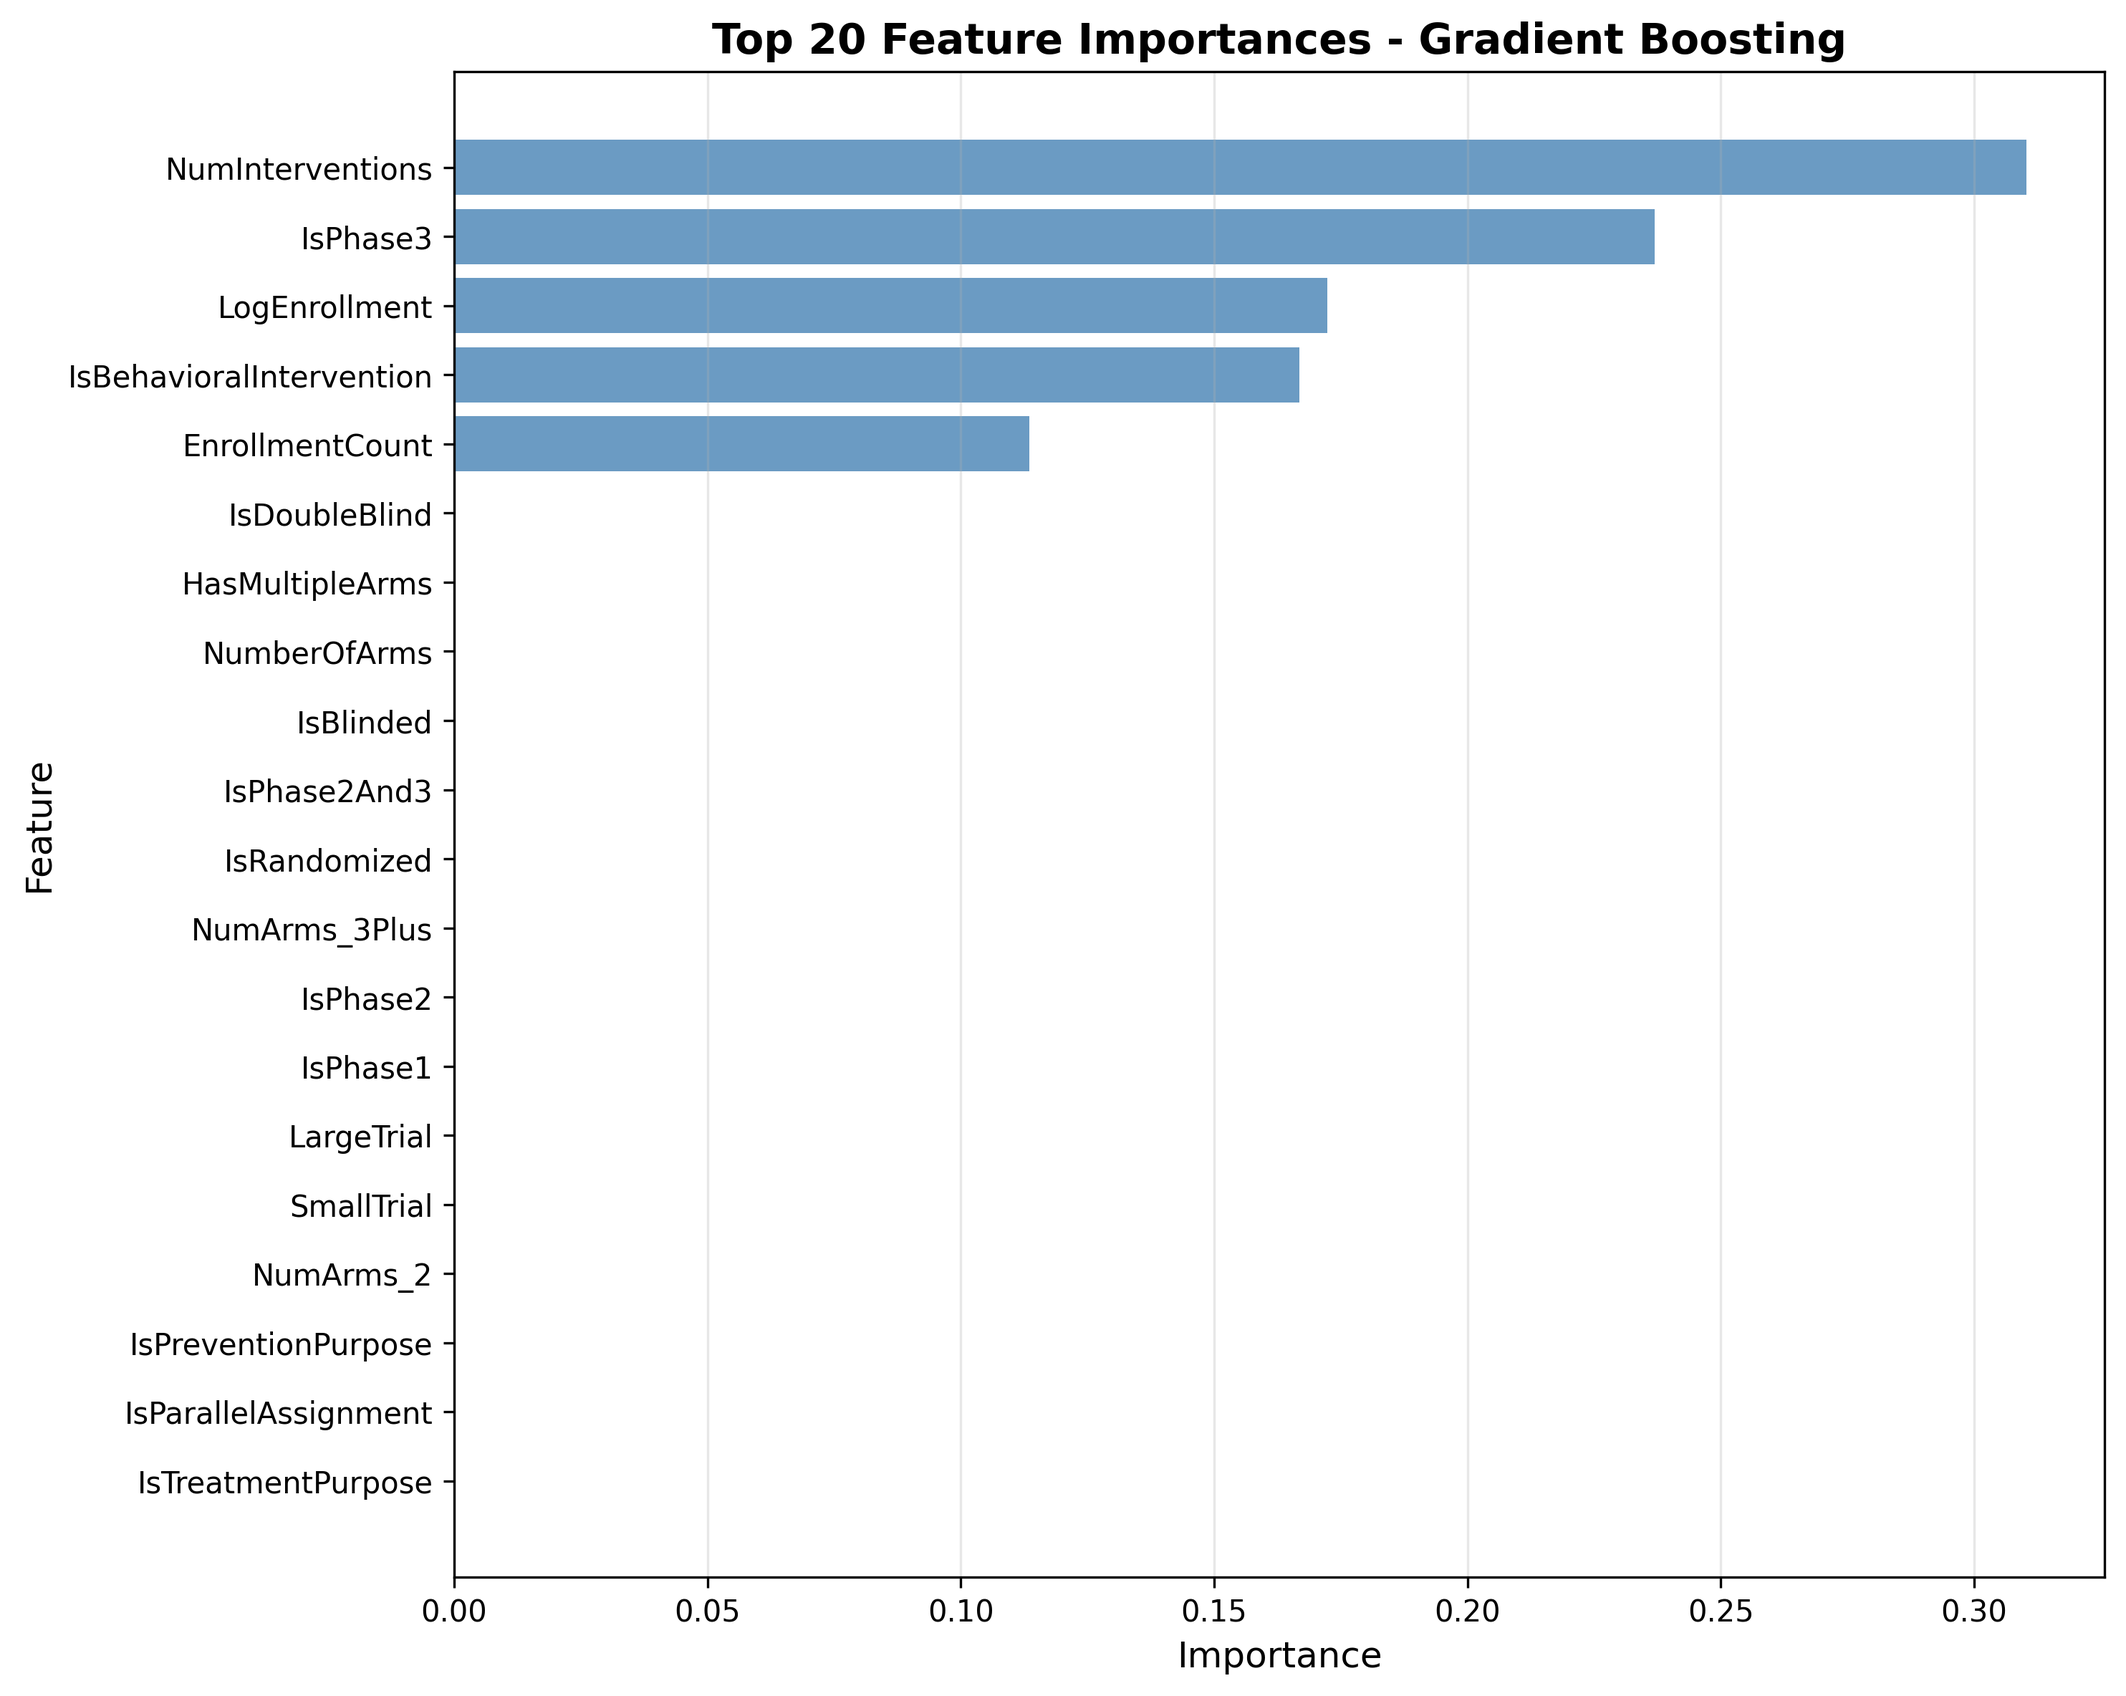
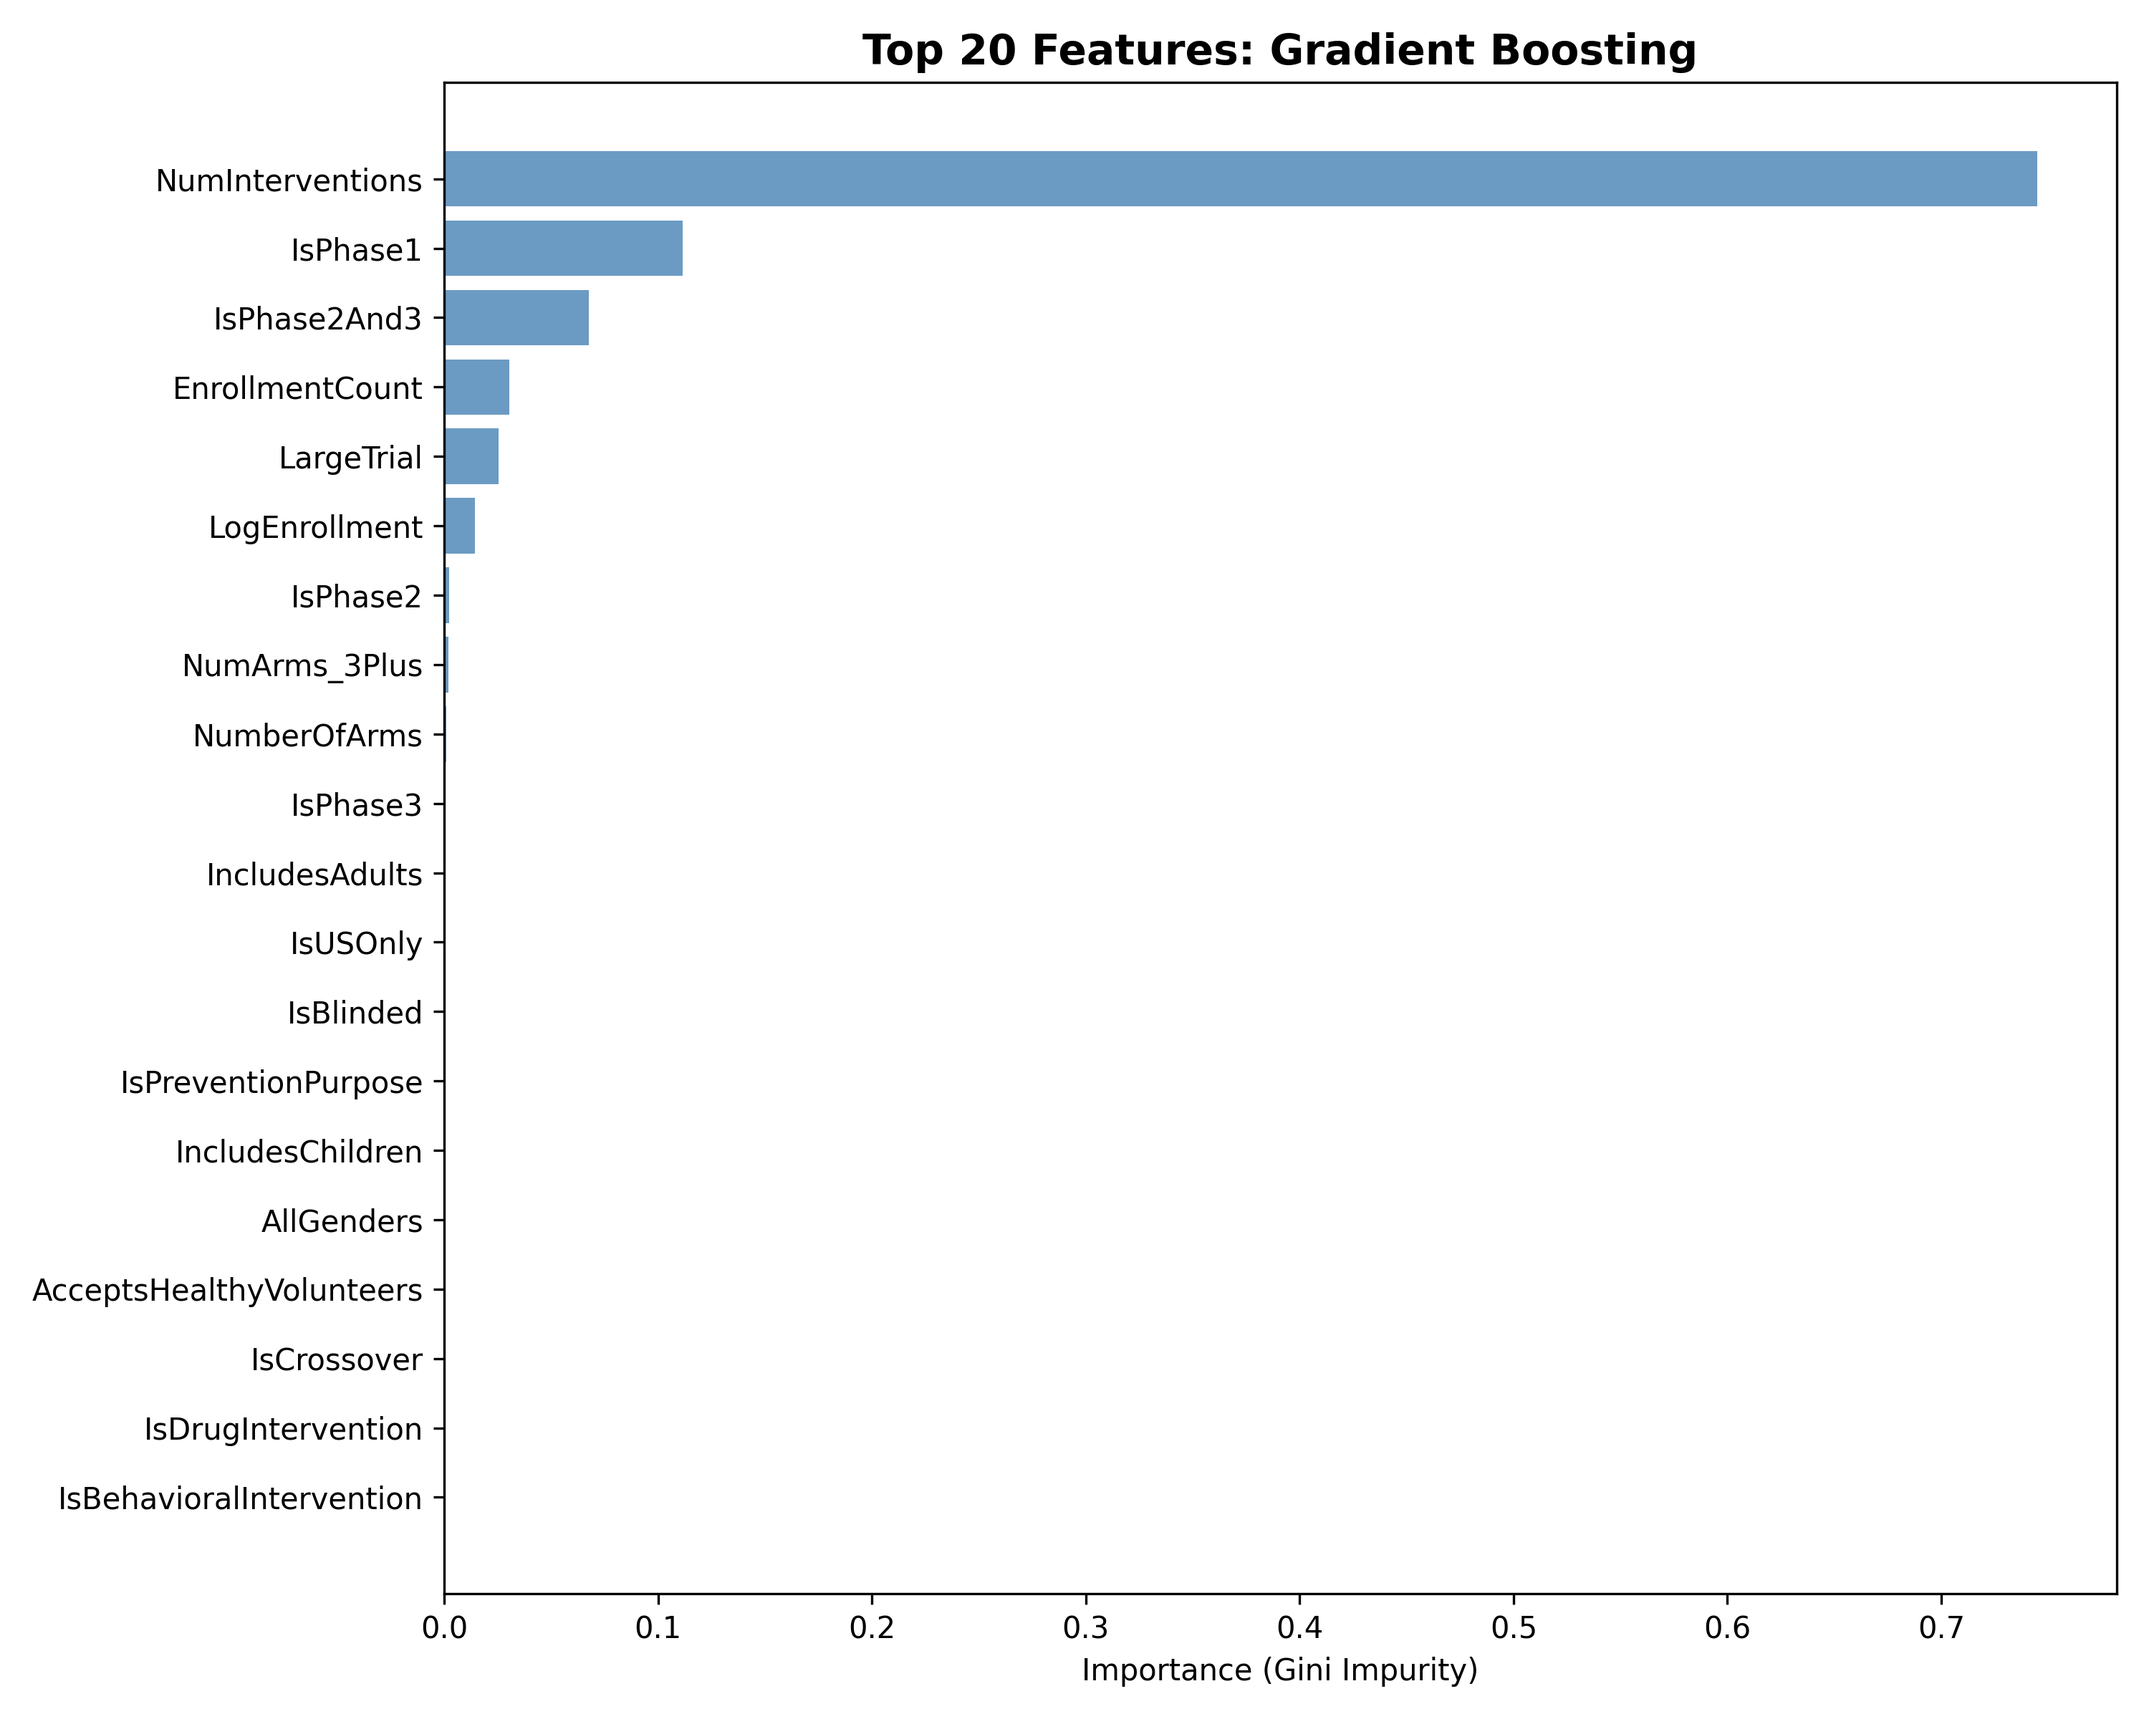
Generate feature importances for all models

Changed region(s): [[0.031, 0.0, 0.9919, 1.0], [0.0, 0.4688, 0.031, 0.5312]]

diff --git a/src/train_models.py b/src/train_models.py
@@ -4,6 +4,7 @@ Train and evaluate machine learning models for ADHD trial success prediction.
 - Uses Leave-One-Out Cross-Validation (LOOCV) for robust metrics.
 - Uses Manual Oversampling inside the CV loop to handle class imbalance.
 - Generates performance reports and visualizations based on LOOCV results.
+- Extracts Feature Importance for ALL models (Coefficients for LR, Impurity for Trees).
 """
 
 import json
@@ -205,44 +206,66 @@ def plot_roc_curves_loocv(
     plt.close()
 
 
-def generate_feature_importance(
+def generate_all_feature_importances(
         X: pd.DataFrame,
         y: np.ndarray,
         feature_names: list,
-        save_path: str = "data/processed/feature_importance.png"
+        save_dir: str = "data/processed"
 ):
     """
-    Train a Random Forest on FULL data just to extract feature importance.
-    (We can't average feature importance easily across 36 LOOCV models,
-    so a full-data fit is the standard proxy for inspection).
+    Train all models on the dataset to extract feature importance.
+    - Trees: Uses feature_importances_
+    - Logistic Regression: Uses abs(coefficients)
     """
-    print("\nGenerating Feature Importance Plot (using full dataset fit)...")
+    print("\nGenerating Feature Importance Plots (using full dataset fit)...")
+    os.makedirs(save_dir, exist_ok=True)
 
-    # Scale and Oversample
+    # Scale and Oversample (Pre-processing must match training loop)
     scaler = StandardScaler()
     X_scaled = pd.DataFrame(scaler.fit_transform(X), columns=X.columns)
     X_res, y_res = oversample_minority(X_scaled, y)
 
-    # Fit RF
-    rf = RandomForestClassifier(n_estimators=100, max_depth=5, random_state=42)
-    rf.fit(X_res, y_res)
+    # Define same models as in evaluation
+    models = {
+        "Logistic_Regression": LogisticRegression(random_state=42, C=0.5, solver='liblinear'),
+        "Random_Forest": RandomForestClassifier(n_estimators=100, max_depth=5, random_state=42),
+        "Gradient_Boosting": GradientBoostingClassifier(n_estimators=50, learning_rate=0.05, max_depth=3, subsample=0.8,
+                                                        random_state=42)
+    }
 
-    # Plot
-    importances = rf.feature_importances_
-    indices = np.argsort(importances)[::-1][:20]
+    for model_name, model in models.items():
+        model.fit(X_res, y_res)
 
-    plt.figure(figsize=(10, 8))
-    plt.barh(range(20), importances[indices], align="center", color="steelblue", alpha=0.8)
-    plt.yticks(range(20), [feature_names[i] for i in indices])
-    plt.xlabel("Importance")
-    plt.title("Top 20 Feature Importances (Random Forest)", fontsize=14, fontweight="bold")
-    plt.gca().invert_yaxis()
-    plt.tight_layout()
+        # Extract Importances
+        if hasattr(model, "feature_importances_"):
+            # Tree-based
+            importances = model.feature_importances_
+            metric_label = "Importance (Gini Impurity)"
+        elif hasattr(model, "coef_"):
+            # Linear Models - Take absolute value of coefficients
+            importances = np.abs(model.coef_[0])
+            metric_label = "Importance (Abs Coefficient)"
+        else:
+            print(f"Skipping {model_name}: No importance attribute found.")
+            continue
 
-    os.makedirs(os.path.dirname(save_path), exist_ok=True)
-    plt.savefig(save_path, dpi=300)
-    print(f"Feature importance plot saved to: {save_path}")
-    plt.close()
+        # Sort and Plot Top 20
+        indices = np.argsort(importances)[::-1][:20]
+
+        plt.figure(figsize=(10, 8))
+        plt.barh(range(len(indices)), importances[indices], align="center", color="steelblue", alpha=0.8)
+        plt.yticks(range(len(indices)), [feature_names[i] for i in indices])
+        plt.xlabel(metric_label)
+        plt.title(f"Top 20 Features: {model_name.replace('_', ' ')}", fontsize=14, fontweight="bold")
+        plt.gca().invert_yaxis()
+        plt.tight_layout()
+
+        # Save specific file
+        filename = f"feature_importance_{model_name.lower()}.png"
+        full_path = os.path.join(save_dir, filename)
+        plt.savefig(full_path, dpi=300)
+        print(f"Saved: {full_path}")
+        plt.close()
 
 
 def save_results(results_df: pd.DataFrame, feature_names: list, save_dir: str = "data/processed"):
@@ -278,7 +301,9 @@ def main():
 
     # Generate Visualizations
     plot_roc_curves_loocv(model_predictions)
-    generate_feature_importance(X, y, feature_cols)
+
+    # Generate Feature Importance for models
+    generate_all_feature_importances(X, y, feature_cols)
 
     # Save Results
     save_results(results_df, feature_cols)
